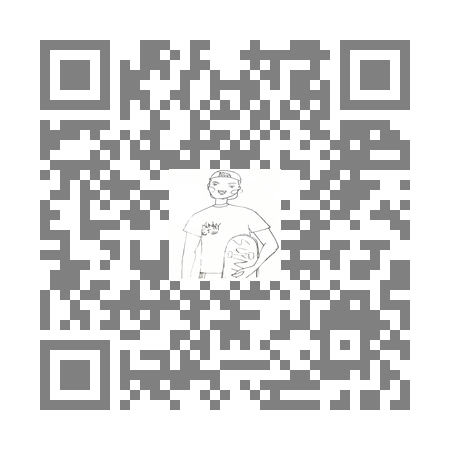
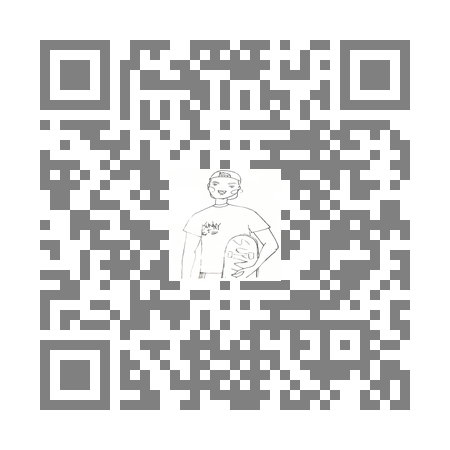
NBA data On process

Changed region(s): [[0.0622, 0.0622, 0.9333, 0.9333], [0.8089, 0.84, 0.8711, 0.9022]]

diff --git a/test.py b/test.py
@@ -1,0 +1,63 @@
+# import requests
+# from bs4 import BeautifulSoup
+
+# # resp = requests.get('https://www.showtimes.com.tw/')
+# # html = resp.text
+# # soup = BeautifulSoup(html, 'html.parser')
+# # print(soup.find('section'))
+# # # print(soup.find_all(class_="sc-gFAWRd iCPDmh"))
+# """
+# for i in range(5):
+#     print(f"=== PAGE {i} ===")
+#     res = requests.get(f'https://www.vscinemas.com.tw/vsweb/film/index.aspx?p={i}')
+#     html = res.text
+
+#     soup = BeautifulSoup(html, 'html.parser')
+#     sections = soup.find_all('section', {'class': 'infoArea'})
+#     for section in sections:
+#         print(section.find('a').text)
+# """
+
+
+# from selenium import webdriver
+# from selenium.webdriver.chrome.service import Service
+# from selenium.webdriver.common.by import By
+# from selenium.webdriver.chrome.options import Options
+# from selenium.webdriver.support.ui import WebDriverWait
+# from selenium.webdriver.support import expected_conditions as EC
+# from bs4 import BeautifulSoup
+# import os
+# import csv
+# import time
+# from webdriver_manager.chrome import ChromeDriverManager
+
+# # 設定選項
+# options = Options()
+# options.headless = False  # 設為 True 以啟動 headless 模式
+# options.add_argument('--disable-gpu')
+# options.add_argument('--no-sandbox')
+# options.add_argument('--disable-dev-shm-usage')
+
+# # 使用 webdriver_manager 安裝並啟動 ChromeDriver
+# service = Service(ChromeDriverManager().install())
+# driver = webdriver.Chrome(service=service, options=options)
+# url = 'https://tw-nba.udn.com/nba/team_tab/583ecae2-fb46-11e1-82cb-f4ce4684ea4c'
+# driver.get(url)
+# html = driver.page_source
+
+# print(html)
+
+"""
+sudo apt update && sudo apt upgrade -y
+sudo apt install netcat
+nc -l -p 10000
+"""
+import requests
+url = 'http://127.0.0.1:9998'
+
+header = {
+
+    
+}
+res = requests.get(url)
+print(res.content.decode())

diff --git a/myProject/NBA/Data.py b/myProject/NBA/Data.py
@@ -1,0 +1,76 @@
+import mysql.connector
+
+# 建立資料庫連接
+connection = mysql.connector.connect(
+    host='localhost',
+    port='3306',
+    user='root',
+    password='open'
+)
+
+cursor = connection.cursor()
+
+# 創建資料庫
+cursor.execute("CREATE DATABASE IF NOT EXISTS `NBA`;")
+cursor.execute("USE `NBA`;")
+
+# 創建表格
+cursor.execute("""
+CREATE TABLE IF NOT EXISTS `player` (
+    `player_id` INT AUTO_INCREMENT PRIMARY KEY,
+    `name` VARCHAR(30)
+);
+""")
+
+# 插入資料
+cursor.execute("""
+INSERT INTO `player` (`player_id`, `name`)
+SELECT 1, 'LeBron James'
+FROM DUAL -- (虛擬表)確保返回一行 -- 後面要加一個空白
+WHERE NOT EXISTS (
+    SELECT 1
+    FROM `player`
+    WHERE `player_id` = 1
+      AND `name` = 'LeBron James'
+);
+""")
+
+cursor.execute("""
+INSERT INTO `player` (`player_id`, `name`)
+SELECT 2, 'Stephen Curry'
+FROM DUAL
+WHERE NOT EXISTS (
+    SELECT 1
+    FROM `player`
+    WHERE `player_id` = 2
+      AND `name` = 'Stephen Curry'
+);
+""")
+
+# 查看表結構
+"""
+cursor.execute("DESCRIBE `player`;")
+records = cursor.fetchall()
+
+# 打印出表結構
+print("Table Structure:")
+for record in records:
+    print(record)
+print()
+"""
+
+# 查詢所有資料
+cursor.execute("SELECT * FROM `player`;")
+records = cursor.fetchall()
+
+# 打印出所有資料
+print("Data:")
+for record in records:
+    print(record)
+
+# 提交所有變更
+connection.commit()
+
+# 關閉游標和連接
+cursor.close()
+connection.close()

diff --git a/Certification/epic_example.py b/Certification/epic_example.py
@@ -20,6 +20,31 @@ print("|%-7.2f %-7.2f|" % (c, d))
 """
 
 print("----------------------------------------", 'Test', "-"*40)
+string = "hello"
+index = string.index('e')  # 返回 1
+str_ = "hello world"
+positions = [i for i, char in enumerate(str_) if char == 'o']  # 返回 [4, 7]
+"""
+import java.util.ArrayList;
+
+public class Main {
+    public static void main(String[] args) {
+        String s = "hello world";
+        char target = 'o';
+        ArrayList<Integer> positions = new ArrayList<Integer>();
+        int index = s.indexOf(target);  // 首次找到字符的索引
+        
+        while (index >= 0) {
+            positions.add(index);
+            index = s.indexOf(target, index + 1);  // 从上一个找到的位置之后开始搜索
+        }
+
+        System.out.println(positions);  // 输出所有'o'字符的索引位置
+    }
+}
+"""
+
+print("----------------------------------------", 'Test', "-"*40)
 import math
 # 0 coordinate
 x2, y2 = 0, 0
@@ -607,4 +632,4 @@ def reverse_number_math(n):
         n //= 10
     return reversed_num
 
-print("----------------------------------------", 'Test-reverse', "-"*40)
+print("----------------------------------------", 'Test', "-"*40)

diff --git a/leetcode/findMedianSortedArrays.py b/leetcode/findMedianSortedArrays.py
@@ -1,3 +1,15 @@
+def Medain(a, b):
+    sum_list = a + b
+    sum_list.sort()
+    if len(sum_list) % 2 == 1:
+        return sum_list[(len(sum_list) // 2)] 
+    else: 
+        mid = len(sum_list) // 2
+        return (sum_list[mid - 1] + sum_list[mid]) / 2 
+list_1 = [1, 2, 4, 8, 4]
+list_2 = [43, 34, 3, 34, 45]
+print(Medain(list_1, list_2))
+
 class Solution:
     def findMedianSortedArrays(self, nums1, nums2):
         if len(nums1) > len(nums2):
@@ -73,15 +85,3 @@ public class MedianCalculator {
 
 }
 """
-
-def Medain(a, b):
-    sum_list = a + b
-    sum_list.sort()
-    if len(sum_list) % 2 == 1:
-        return sum_list[(len(sum_list) // 2)] 
-    else: 
-        mid = len(sum_list) // 2
-        return (sum_list[mid - 1] + sum_list[mid]) / 2 
-list_1 = [1, 2, 4, 8, 4]
-list_2 = [43, 34, 3, 34, 45]
-print(Medain(list_1, list_2))

diff --git a/myProject/NBA/scraper.py b/myProject/NBA/scraper.py
@@ -1,0 +1,23 @@
+import requests
+from bs4 import BeautifulSoup
+
+# 取得網頁內容
+url = 'https://tw-nba.udn.com/nba/team_tab/583ecae2-fb46-11e1-82cb-f4ce4684ea4c'
+resp = requests.get(url)
+
+# 確認請求成功
+if resp.status_code == 200:
+    html = resp.content.decode()
+    
+    # 使用BeautifulSoup解析HTML
+    soup = BeautifulSoup(html, 'html.parser')
+    
+    # 找到所有<h3>標籤
+    content = soup.find_all('h3')
+    
+    # 列印每個<h3>標籤的文字內容
+    for title in content:
+        print(title.get_text())
+
+else:
+    print("Failed to retrieve the webpage.")

diff --git a/Epic_Demo/Scraper/Crawler_Detect.py b/Epic_Demo/Scraper/Crawler_Detect.py
@@ -1,0 +1,15 @@
+from flask import Flask, render_template, request
+from crawlerdetect import CrawlerDetect
+
+app = Flask(__name__)
+crawler_detect = CrawlerDetect()
+
+@app.route('/')
+def hello():
+    if crawler_detect.isCrawler(request.headers['User-Agent']):
+        return "<h1>你是臭爬蟲</h1>"
+    else:
+        return "<h1>你不是爬蟲</h1>"
+
+if __name__ == '__main__':
+    app.run(port=9998)

diff --git a/book_7MediaFiles.py b/book_7MediaFiles.py
@@ -253,7 +253,7 @@ qr = qrcode.QRCode(
     box_size=10,
     border=4  # 預設為 4
 )
-qr.add_data('https://tzuchientseng.github.io/sunny.github.io/')
+qr.add_data('https://sunnytseng.com/')
 qr.make(fit=True)
 img = qr.make_image(fill_color='gray')
 
